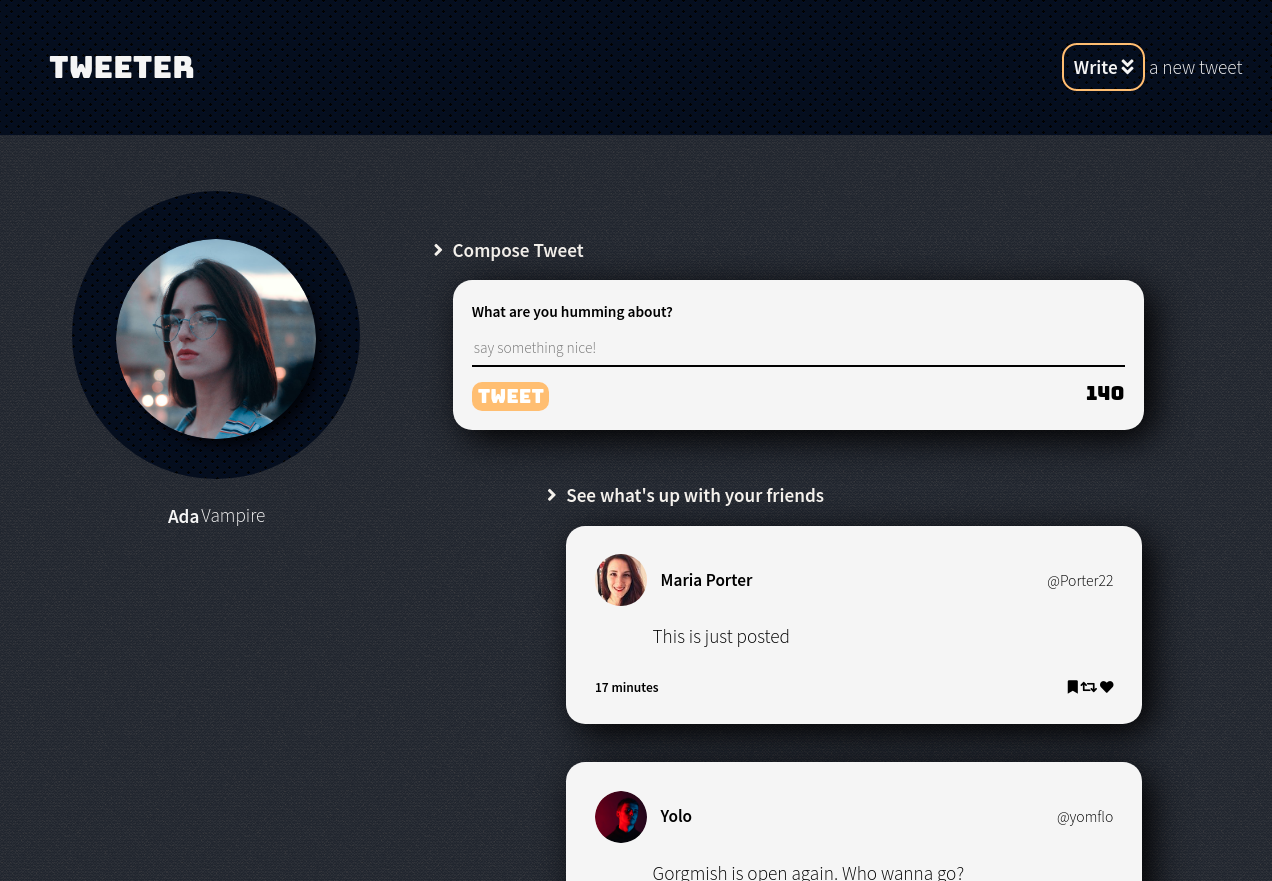
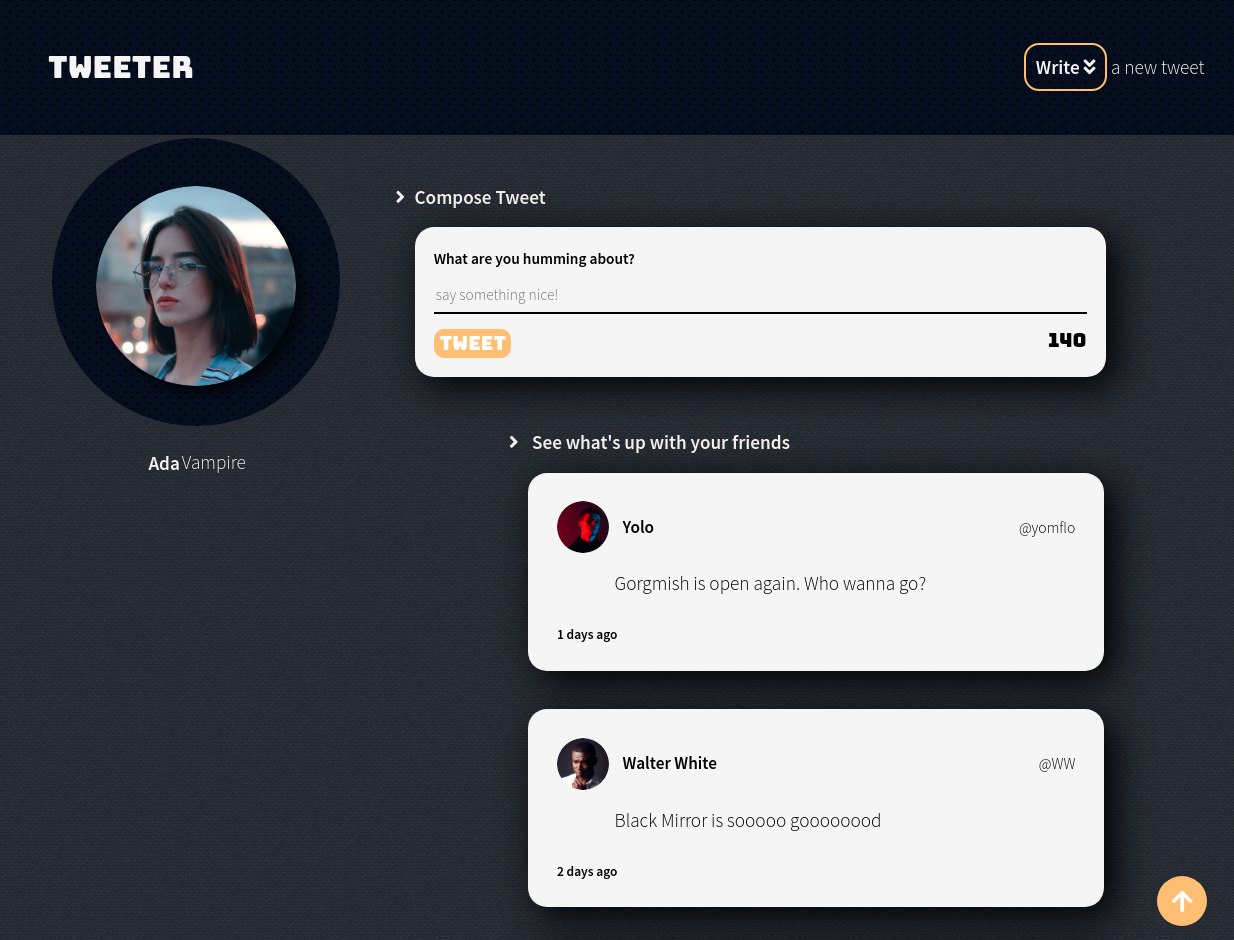
fix mobile nav style

diff --git a/public/scripts/client.js b/public/scripts/client.js
@@ -18,10 +18,15 @@ $(document).ready(function () {
 
   //character counter
   $("textarea").on("input", charCounter);
+  //toggle tweet box textarea
   $("#new-tweet-button").on("click", toggleTweet);
+  //make compose tweet text a toggle button to toggle tweet textarea
   $("#compose-tweet-button").on("click", toggleTweet);
+  //click to scroll up to the top of the page
   $("#scroll-up").on("click", scrollUpAction);
+  //when scroll down the scrollup button will disappear
   $(window).scroll(scrollUpButton);
+  //scroll up to fade out the "see what your friends are doing h2"
   if ($(window).width() < 701) {
     $(window).scroll(feedSubtitleHide);
   }

diff --git a/public/styles/nav.css b/public/styles/nav.css
@@ -52,10 +52,8 @@ nav {
 @media only screen and (max-width: 700px) {
   nav {
     display: flex;
-    flex-direction: column;
-    height: 5em;
-    background-color: hsl(223, 17%, 16%);
-    background-image: url("https://www.transparenttextures.com/patterns/binding-dark.png");
+    background-color: transparent;
+    background-image: none;
   }
   .new-tweet-button {
     display: none;
@@ -70,7 +68,8 @@ nav {
     width: 4em;
   }
   .top-nav .logo {
-    margin-top: 1em;
+    margin-top: 2em;
+    margin-left: 2em;
     font-size: 1.5em;
   }
   .fa-angle-double-down {

diff --git a/public/styles/new-tweet.css b/public/styles/new-tweet.css
@@ -118,6 +118,7 @@ textarea {
     display: inline;
     background-color: #ffc068;
     padding: 0.6em;
+    color: #232121;
     border-radius: 15px;
   }
   .subtitle {

diff --git a/public/styles/layout.css b/public/styles/layout.css
@@ -69,7 +69,7 @@ body {
 
 @media only screen and (max-width: 700px) {
   .main-content {
-    margin-top: 5em;
+    margin-top: 9em;
   }
   html {
     display: flex;

diff --git a/README.md b/README.md
@@ -38,7 +38,6 @@ New Tweet Generation
 ![New Tweet Generation](./screenshots/newTweet.png)
 
 Warning
-
 ![Too Long](./screenshots/warningContentTooLong.gif)
 ![No Content](./screenshots/warningNoContent.gif)
 
